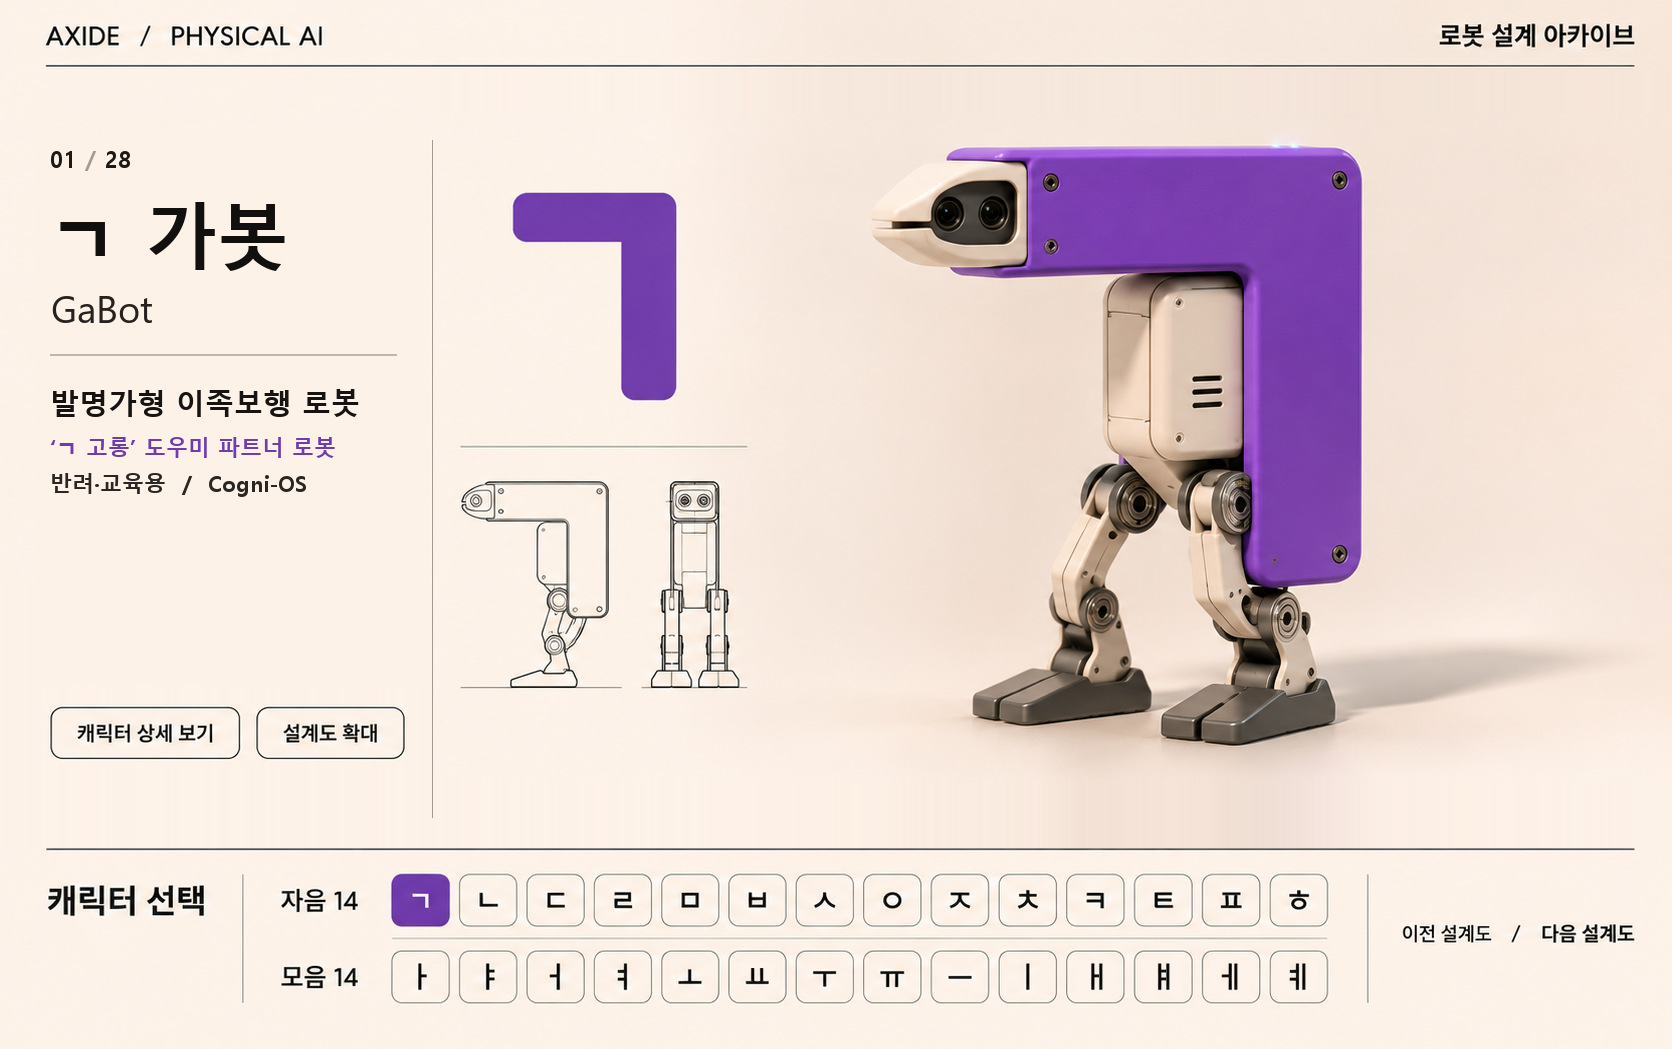
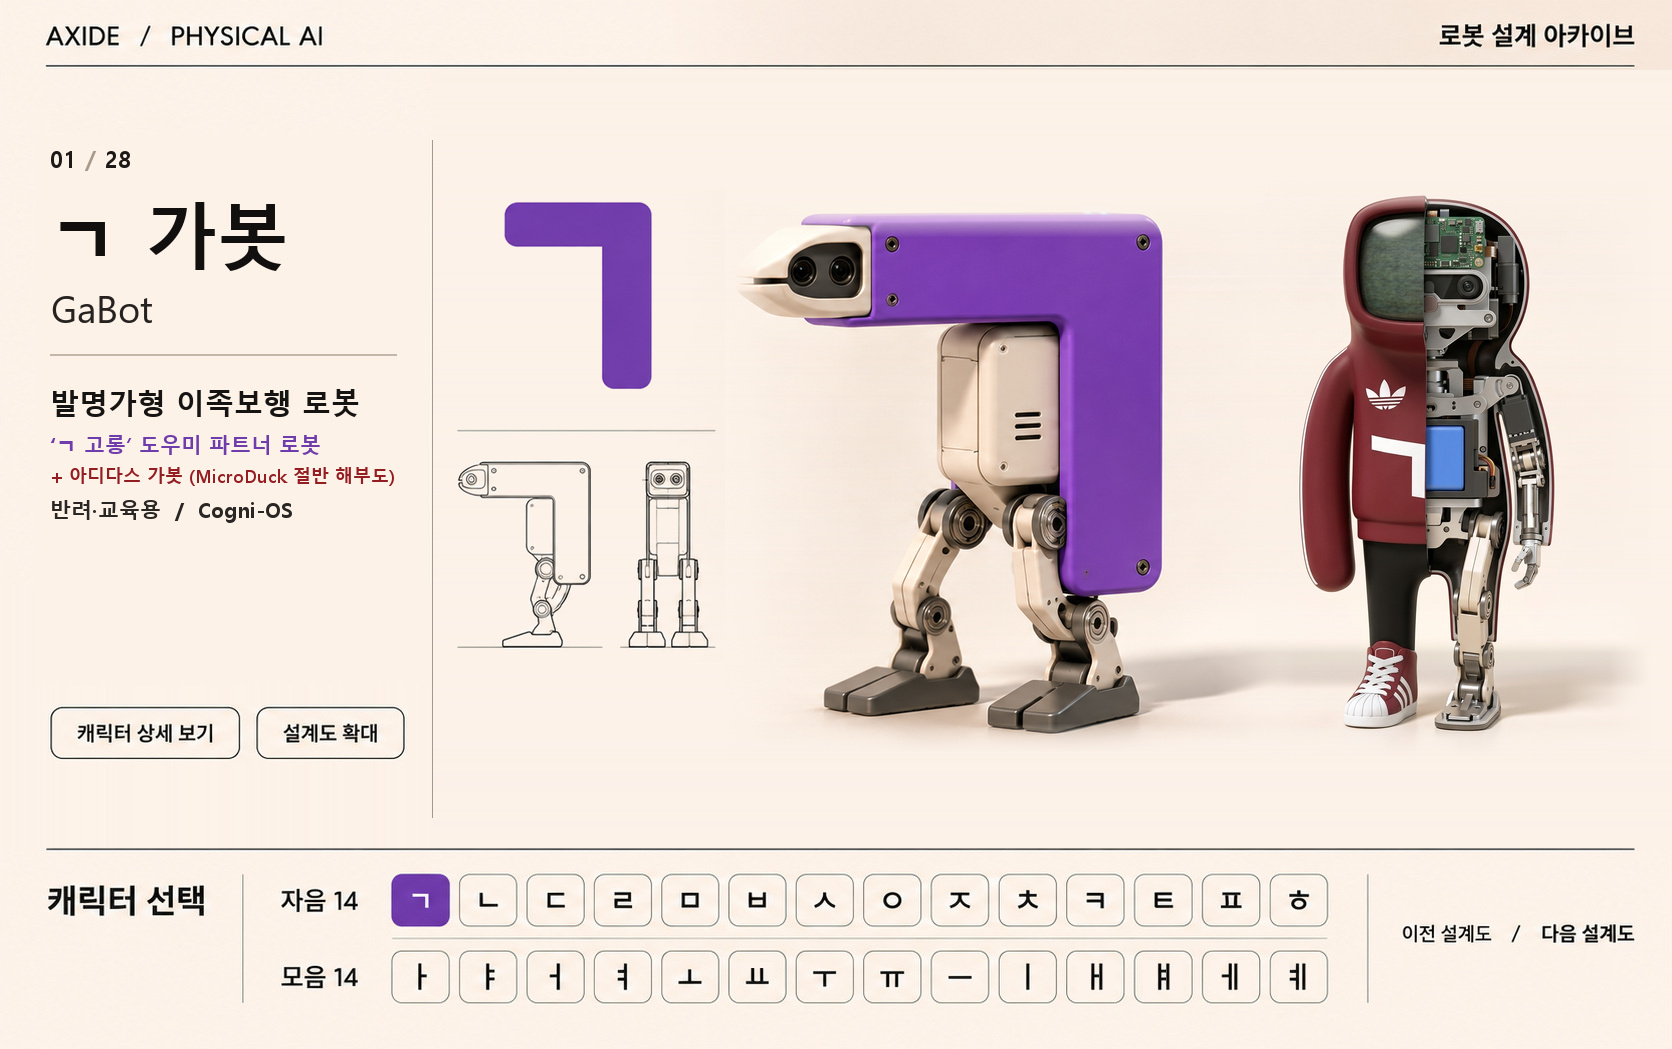
Add half-cutaway MicroDuck Adidas GaBot alongside original purple GaBot in jr_01.jpg

Changed region(s): [[0.4354, 0.122, 0.9641, 0.7626], [0.2799, 0.183, 0.4354, 0.6711], [0.0311, 0.3966, 0.2177, 0.5186]]

diff --git a/story.html b/story.html
@@ -393,7 +393,7 @@
 
                         <!-- Physical AI 28-Jamo Bipedal Partner Robot Archive Interactive Board (가봇 ~ 예봇, C:\Project\myhistory\AXIDE_한글_테마로봇_28장) -->
                         <div id="somooBpShowcaseWrap" class="mt-3 position-relative rounded-4 overflow-hidden" style="border: 1.5px solid rgba(251, 191, 36, 0.48); background: #FDF3E8; box-shadow: 0 20px 48px rgba(2, 6, 23, 0.65);">
-                            <img id="somooBpShowcaseImg" src="assets/images/somoo-jamo-robot/jr_01.jpg?v=20261107_jambot_v3" alt="AXIDE / PHYSICAL AI 로봇 설계 아카이브 — 01/28 ㄱ 가봇(GaBot) · ‘ㄱ 고롱’ 도우미 파트너 발명가형 이족보행 로봇" style="width: 100%; height: auto; display: block;" decoding="async">
+                            <img id="somooBpShowcaseImg" src="assets/images/somoo-jamo-robot/jr_01.jpg?v=20261107_jambot_v4" alt="AXIDE / PHYSICAL AI 로봇 설계 아카이브 — 01/28 ㄱ 가봇(GaBot) · ‘ㄱ 고롱’ 도우미 파트너 발명가형 이족보행 로봇" style="width: 100%; height: auto; display: block;" decoding="async">
                             <!-- Interactive Hotspots: Upper Robot Lightbox, [캐릭터 상세 보기], [설계도 확대], 28 Jamo Selector (ㄱ~ㅎ, ㅏ~ㅖ), [이전 설계도 / 다음 설계도] -->
                             <div id="somooBpBoardHotspots" style="position: absolute; inset: 0; pointer-events: none;"></div>
                         </div>
@@ -2953,7 +2953,7 @@
                                         <button type="button" id="somooModalBlueprintBtn" onclick="openStoryLightbox('assets/images/somoo-blueprint/bp_01.jpg?v=20261107_mainbp_v6', '한글 소모오 피지컬 AI — 01/28 ‘ㄱ 고롱(GoLong) · 발명가’ 마이크로덕형 14-DOF 메인 로봇 설계도', false)" class="btn btn-sm rounded-pill px-3 py-1 fw-bold" style="background: rgba(45, 212, 191, 0.2); color: #99f6e4; border: 1px solid rgba(45, 212, 191, 0.55); font-size: 11.5px;">
                                             📐 ‘ㄱ 고롱’ 메인 로봇 설계도 보기
                                         </button>
-                                        <button type="button" id="somooModalJamoBotBtn" onclick="openStoryLightbox('assets/images/somoo-jamo-robot/jr_01.jpg?v=20261107_jambot_v3', 'AXIDE / PHYSICAL AI 자모 파트너 로봇 — 01/28 ‘ㄱ 가봇(GaBot)’ (‘ㄱ 고롱’ 도우미 파트너 로봇)', false)" class="btn btn-sm rounded-pill px-3 py-1 fw-bold" style="background: rgba(139, 92, 246, 0.22); color: #ddd6fe; border: 1px solid rgba(167, 139, 250, 0.55); font-size: 11.5px;">
+                                        <button type="button" id="somooModalJamoBotBtn" onclick="openStoryLightbox('assets/images/somoo-jamo-robot/jr_01.jpg?v=20261107_jambot_v4', 'AXIDE / PHYSICAL AI 자모 파트너 로봇 — 01/28 ‘ㄱ 가봇(GaBot)’ (‘ㄱ 고롱’ 도우미 파트너 로봇)', false)" class="btn btn-sm rounded-pill px-3 py-1 fw-bold" style="background: rgba(139, 92, 246, 0.22); color: #ddd6fe; border: 1px solid rgba(167, 139, 250, 0.55); font-size: 11.5px;">
                                             🤖 ‘ㄱ 가봇’ 자모 파트너 로봇 보기
                                         </button>
                                     </div>
@@ -3493,7 +3493,7 @@
             }
             // Hangul Jamo Bipedal Partner Robot Archive Board (ㄱ 가봇 ~ ㅖ 예봇)
             function getJamoPartnerRobotUrl(idx) {
-                return 'assets/images/somoo-jamo-robot/jr_' + pad2(idx + 1) + '.jpg?v=20261107_jambot_v3';
+                return 'assets/images/somoo-jamo-robot/jr_' + pad2(idx + 1) + '.jpg?v=20261107_jambot_v4';
             }
 
             var currentBpShowcaseIdx = 0;
